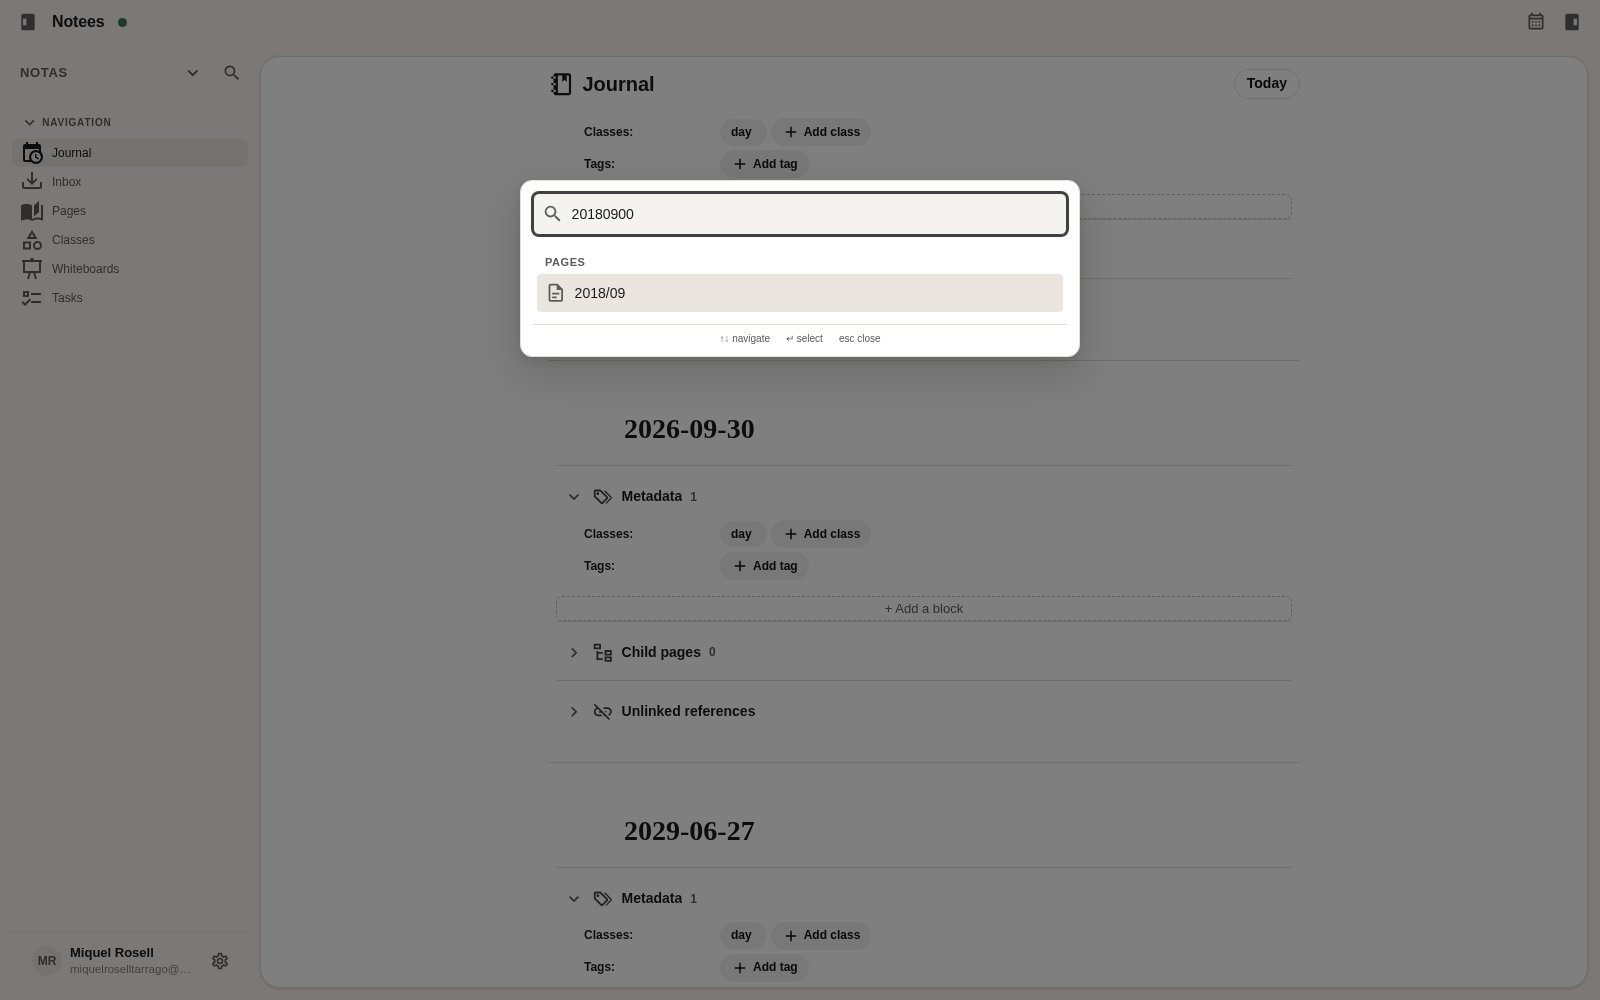
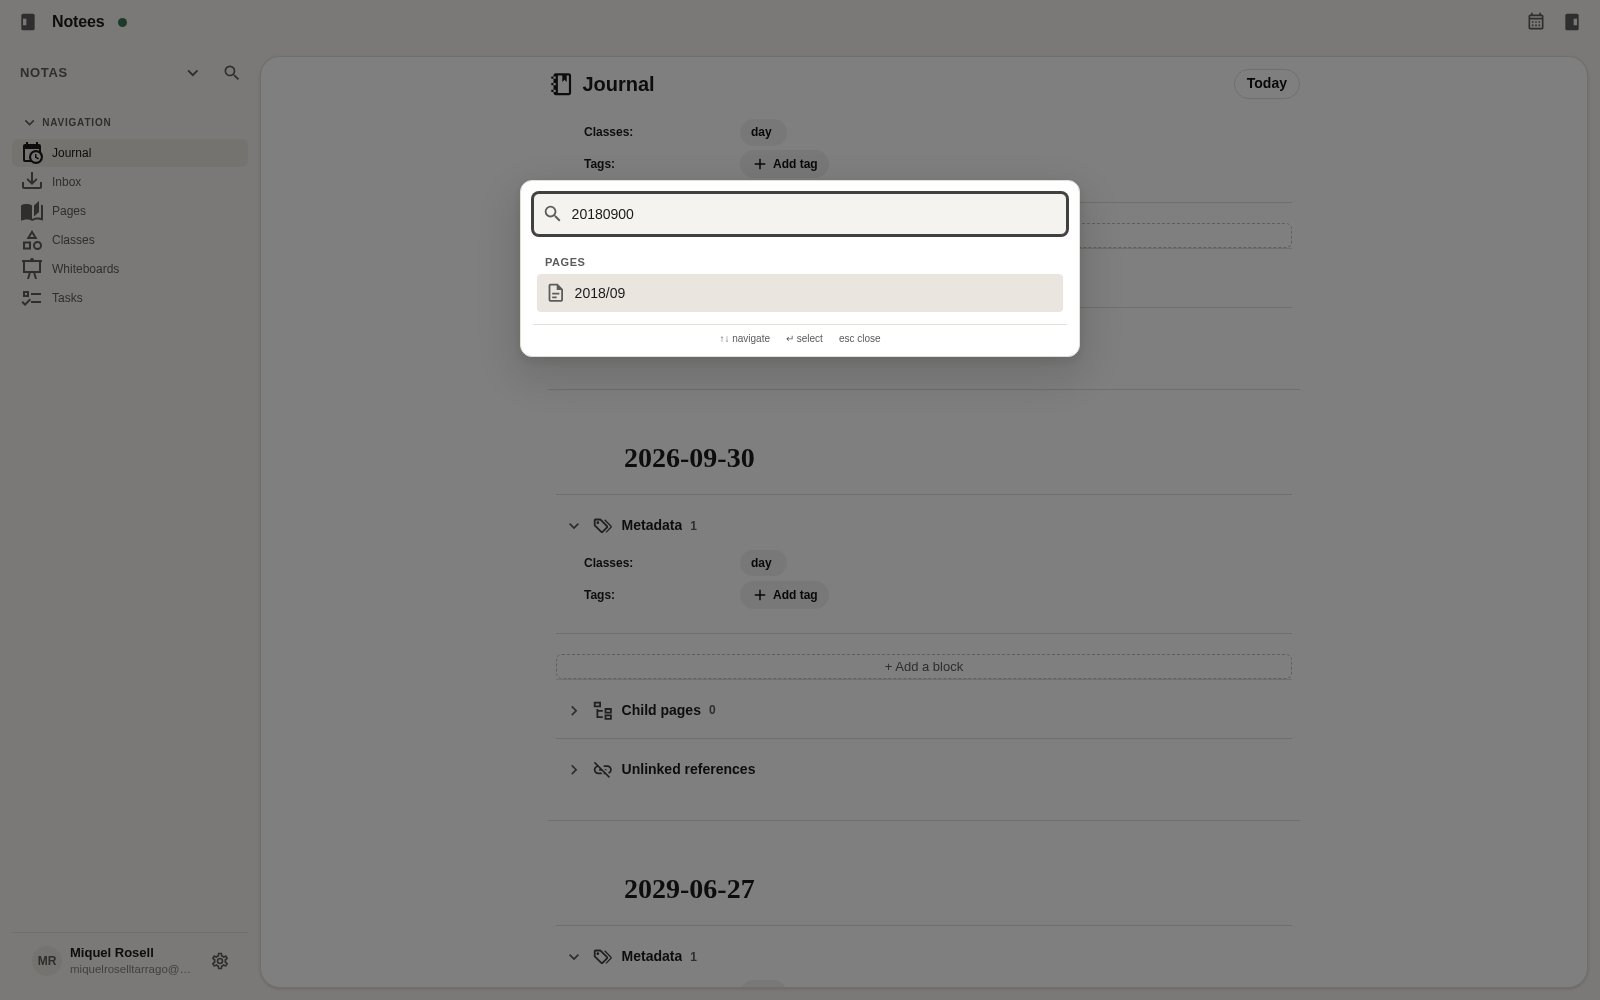
feat(web): effectiveColor across UI, properties table polish, delete fixes
- effectiveColor: class color else nearest colored ancestor in the extends
  chain (client.effectiveClassColor, worker pass-through); node color = own
  else first class's effective color. Applied to: class pills (background),
  mention link underlines (per-target border color), and a 3px left accent
  border on the content card when the open node has a color (the teal line).
- context menu delete: blocks delete instantly; pages and classes keep the
  two-step confirm; the first step now holds the menu open (keepOpen) — the
  confirm was unreachable before (menu closed on click, state discarded).
- class.delete strips the class from every node's class_ids (member rows
  tombstoned + recompute; regression test) — no dangling uuid pills.
- Add class / Add tag: background-less ghost; when the group has items the
  button is a bare '+' revealed on row hover (reference-image styling).
- properties: aligned 140px label column across rows; class-derived
  (unrealized) rows render muted so provenance reads at a glance; hairline
  separator between the metadata section and the child blocks.

877 tests green; verify-min PASS on the redeployed stack.

diff --git a/packages/store/test/store.test.ts b/packages/store/test/store.test.ts
@@ -1667,6 +1667,23 @@ describe("cross-backend snapshot restore", () => {
 });
 
 for (const adapter of adapters) {
+  describe(`class delete on ${adapter.name} strips membership`, () => {
+    it("class.delete removes the class from every node's class_ids", () => {
+      const store = Store.open(adapter.makeBackend());
+      const page = "0192a000-0000-7000-8000-000000000501";
+      const cls = "0192a000-0000-7000-8000-000000000502";
+      store.apply(env("object.create", { objectId: page, nodeType: "page", name: "P" }, 1727200001000));
+      store.apply(env("class.create", { classId: cls, name: "Genre" }, 1727200001100));
+      store.apply(env("object.create", { objectId: page, nodeType: "page", classIds: [cls] }, 1727200001200));
+      expect(store.getNode(page)!.class_ids).toBe(JSON.stringify([cls]));
+      store.apply(env("class.delete", { classId: cls }, 1727200001300));
+      expect(store.getNode(page)!.class_ids).toBe("[]");
+      store.close();
+    });
+  });
+}
+
+for (const adapter of adapters) {
   describe(`tags on ${adapter.name} (page-scoped page assignments)`, () => {
     it("assign via create carrier, unassign tombstones, re-add wins; tag_ids derived", () => {
       const store = Store.open(adapter.makeBackend());

diff --git a/packages/store/src/appliers.ts b/packages/store/src/appliers.ts
@@ -685,6 +685,13 @@ function applyClassDelete(db: StoreDatabase, env: Envelope): ChangeSummary {
   const p = env.payload as OpPayload<"class.delete">;
   db.prepare("UPDATE class SET active = 0, updated_at = ? WHERE id = ?").run(env.timestamp, p.classId);
   db.prepare("UPDATE node SET is_active = 0, updated_at = ? WHERE id = ?").run(env.timestamp, p.classId);
+  // The class leaves every node's class_ids: tombstone the membership rows
+  // and recompute the affected nodes (otherwise pills render dangling ids).
+  const affected = db
+    .prepare("SELECT node_id FROM class_member_set WHERE class_id = ? AND present = 1")
+    .all(p.classId) as Array<{ node_id: string }>;
+  db.prepare("UPDATE class_member_set SET present = 0 WHERE class_id = ?").run(p.classId);
+  for (const row of affected) recomputeClassIds(db, row.node_id);
   return summary(opType, [p.classId]);
 }
 
